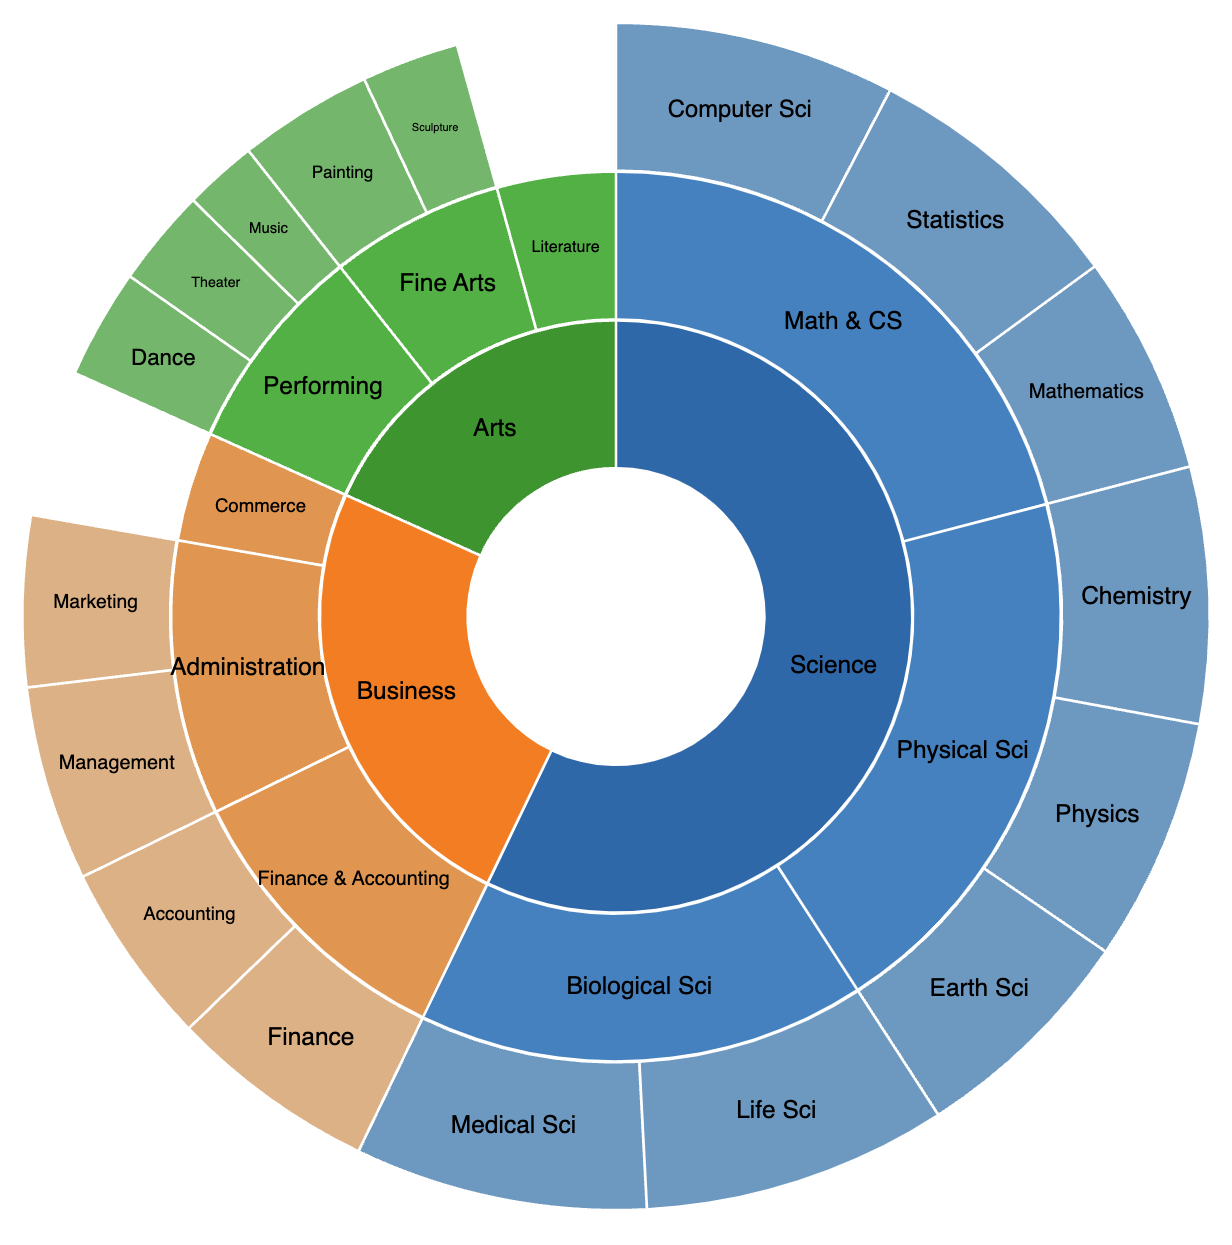
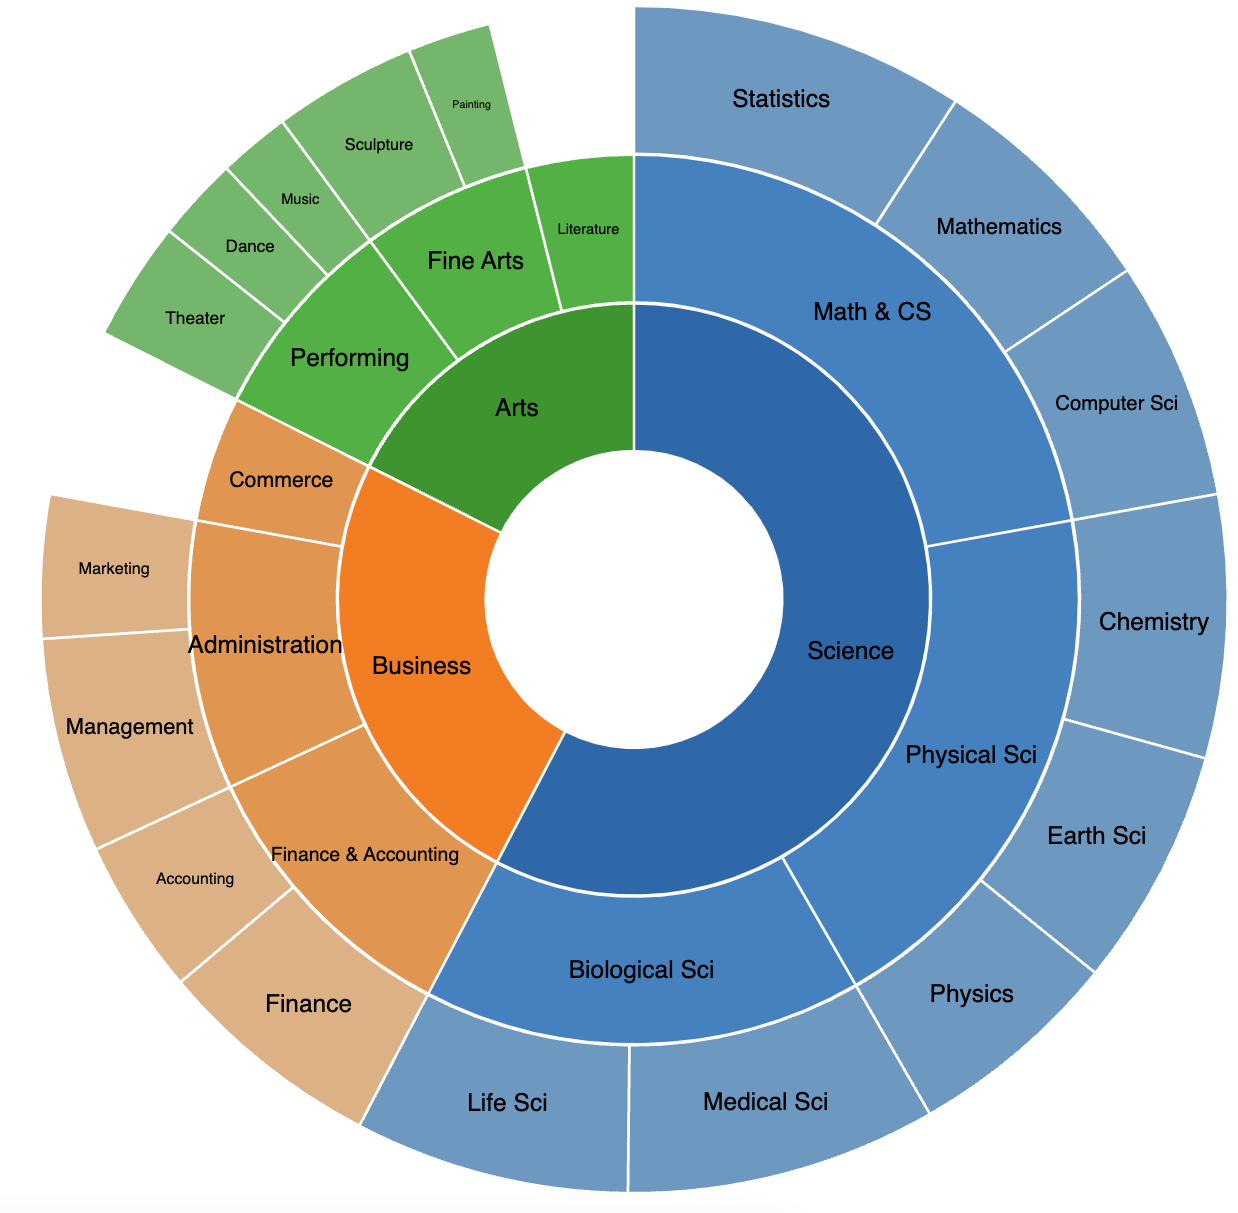
sunburst added

diff --git a/dist/bundle.js b/dist/bundle.js
@@ -10,13 +10,13 @@
 /******/ 	"use strict";
 /******/ 	var __webpack_modules__ = ({
 
-/***/ "./stackedArea/main.ts":
-/*!*****************************!*\
-  !*** ./stackedArea/main.ts ***!
-  \*****************************/
+/***/ "./sunburst/main.ts":
+/*!**************************!*\
+  !*** ./sunburst/main.ts ***!
+  \**************************/
 /***/ (function(__unused_webpack_module, exports, __webpack_require__) {
 
-eval("\nvar __createBinding = (this && this.__createBinding) || (Object.create ? (function(o, m, k, k2) {\n    if (k2 === undefined) k2 = k;\n    var desc = Object.getOwnPropertyDescriptor(m, k);\n    if (!desc || (\"get\" in desc ? !m.__esModule : desc.writable || desc.configurable)) {\n      desc = { enumerable: true, get: function() { return m[k]; } };\n    }\n    Object.defineProperty(o, k2, desc);\n}) : (function(o, m, k, k2) {\n    if (k2 === undefined) k2 = k;\n    o[k2] = m[k];\n}));\nvar __setModuleDefault = (this && this.__setModuleDefault) || (Object.create ? (function(o, v) {\n    Object.defineProperty(o, \"default\", { enumerable: true, value: v });\n}) : function(o, v) {\n    o[\"default\"] = v;\n});\nvar __importStar = (this && this.__importStar) || function (mod) {\n    if (mod && mod.__esModule) return mod;\n    var result = {};\n    if (mod != null) for (var k in mod) if (k !== \"default\" && Object.prototype.hasOwnProperty.call(mod, k)) __createBinding(result, mod, k);\n    __setModuleDefault(result, mod);\n    return result;\n};\nvar __importDefault = (this && this.__importDefault) || function (mod) {\n    return (mod && mod.__esModule) ? mod : { \"default\": mod };\n};\nObject.defineProperty(exports, \"__esModule\", ({ value: true }));\nconst d3 = __importStar(__webpack_require__(/*! d3 */ \"./node_modules/d3/src/index.js\"));\nconst phase2_json_1 = __importDefault(__webpack_require__(/*! ./phase2.json */ \"./stackedArea/phase2.json\"));\n// Define the dimensions of the SVG container, adjusting the margins to make space for the legend\nconst margin = { top: 20, right: 150, bottom: 50, left: 60 };\nconst width = 1360 - margin.left - margin.right;\nconst height = 700 - margin.top - margin.bottom;\n// Append the SVG object to the div with id=\"stackedArea\"\nconst svg = d3\n    .select('#stackedArea')\n    .append('svg')\n    .attr('width', width + margin.left + margin.right + 100) // Extra space for legend\n    .attr('height', height + margin.top + margin.bottom + 50) // Extra space for labels\n    .append('g')\n    .attr('transform', `translate(${margin.left},${margin.top})`);\n// Process the data\nconst data = phase2_json_1.default.map((d) => ({\n    Year: d.Year,\n    Site: d.Site,\n    'Organic Layer': d['Organic Layer'],\n    Topsoil: d.Topsoil,\n    Eluviation: d.Eluviation,\n    Subsoil: d.Subsoil,\n    'Parent Material': d['Parent Material'],\n    Bedrock: d.Bedrock,\n}));\n// List of keys (the soil layers) in the desired order\nconst keys = [\n    'Bedrock',\n    'Parent Material',\n    'Subsoil',\n    'Eluviation',\n    'Topsoil',\n    'Organic Layer',\n];\n// Set the color scale\nconst color = d3\n    .scaleOrdinal()\n    .domain(keys)\n    .range(['#675d53', '#835d3c', '#a86431', '#c48c41', '#974412', '#679f00']);\n// .range(['#1b9e77', '#d95f02', '#7570b3', '#e7298a', '#66a61e', '#e6ab02']);\n// Create the stack generator and reverse the order to start from \"Organic Layer\"\nconst stack = d3\n    .stack()\n    .keys(keys.reverse())\n    .order(d3.stackOrderReverse);\n// Stack the data\nconst stackedData = stack(data);\n// Create the X scale\nconst x = d3\n    .scaleLinear()\n    .domain([\n    d3.min(data, (d) => d.Year),\n    d3.max(data, (d) => d.Year),\n])\n    .range([0, width]);\n// Create the Y scale\nconst y = d3\n    .scaleLinear()\n    .domain([\n    0,\n    d3.max(stackedData[0], (d) => d[1]),\n])\n    .nice()\n    .range([height, 0]);\n// Define the area generator\nconst area = d3\n    .area()\n    .x((d) => x(d.data.Year))\n    .y0((d) => y(d[0]))\n    .y1((d) => y(d[1]));\n// Add the area layers\nsvg\n    .selectAll('.layer')\n    .data(stackedData)\n    .enter()\n    .append('path')\n    .attr('class', 'layer')\n    .attr('d', area)\n    .style('fill', (d) => color(d.key));\n// Get the years from the data\nconst years = data.map((d) => d.Year);\n// Calculate min and max years\nconst minYear = d3.min(years);\nconst maxYear = d3.max(years);\n// Generate an array of years every 10 years for gridlines\nconst allYears = d3.range(minYear, maxYear + 1, 10);\n// Create the X axis\nconst xAxis = d3\n    .axisBottom(x)\n    .tickValues(years)\n    .tickFormat(d3.format('d'));\n// Add the X axis\nsvg\n    .append('g')\n    .attr('class', 'x axis')\n    .attr('transform', `translate(0, ${height})`)\n    .call(xAxis)\n    .selectAll('text') // Select all x-axis labels\n    .style('font-size', '25px'); // Set font size\n// Add X gridlines\nsvg\n    .append('g')\n    .attr('class', 'x grid')\n    .attr('transform', `translate(0, ${height})`)\n    .call(d3.axisBottom(x)\n    .tickValues(allYears)\n    .tickSize(-height)\n    .tickFormat(() => ''))\n    .selectAll('line')\n    .style('stroke', '#e0e0e0')\n    .style('stroke-opacity', 0.5);\n// Create the Y axis\nconst yAxis = d3.axisLeft(y);\n// Add the Y axis\nsvg.append('g').attr('class', 'y axis').call(yAxis).selectAll('text') // Select all x-axis labels\n    .style('font-size', '25px'); // Set font size\n// Add Y gridlines\n// svg\n//   .append('g')\n//   .attr('class', 'y grid')\n//   .call(\n//     d3.axisLeft(y)\n//       .tickSize(-width)\n//       .tickFormat(() => '')\n//   )\n//   .selectAll('line')\n//   .style('stroke', '#e0e0e0');\n// Add axis labels\nsvg\n    .append('text')\n    .attr('transform', `translate(${width / 2}, ${height + margin.bottom - 10})`)\n    .style('text-anchor', 'middle')\n    .text('Year');\nsvg\n    .append('text')\n    .attr('transform', 'rotate(-90)')\n    .attr('y', 0 - margin.left)\n    .attr('x', 0 - height / 2)\n    .attr('dy', '1em')\n    .style('text-anchor', 'middle')\n    .text('Thickness (cm)');\n// Position the legend to the right of the chart\nconst legend = svg\n    .append('g')\n    .attr('class', 'legend')\n    .attr('transform', `translate(${width + 30}, 20)`);\n// Reverse the keys for the legend to match the stacking order\nconst legendItems = legend\n    .selectAll('.legend-item')\n    .data(keys.slice())\n    .enter()\n    .append('g')\n    .attr('class', 'legend-item')\n    .attr('transform', (d, i) => `translate(0, ${i * 25})`);\nlegendItems\n    .append('rect')\n    .attr('x', 0)\n    .attr('y', 0)\n    .attr('width', 18)\n    .attr('height', 18)\n    .style('fill', (d) => color(d));\nlegendItems\n    .append('text')\n    .attr('x', 24)\n    .attr('y', 9)\n    .attr('dy', '.35em')\n    .text((d) => d);\n\n\n//# sourceURL=webpack://analogyvis/./stackedArea/main.ts?");
+eval("\nvar __createBinding = (this && this.__createBinding) || (Object.create ? (function(o, m, k, k2) {\n    if (k2 === undefined) k2 = k;\n    var desc = Object.getOwnPropertyDescriptor(m, k);\n    if (!desc || (\"get\" in desc ? !m.__esModule : desc.writable || desc.configurable)) {\n      desc = { enumerable: true, get: function() { return m[k]; } };\n    }\n    Object.defineProperty(o, k2, desc);\n}) : (function(o, m, k, k2) {\n    if (k2 === undefined) k2 = k;\n    o[k2] = m[k];\n}));\nvar __setModuleDefault = (this && this.__setModuleDefault) || (Object.create ? (function(o, v) {\n    Object.defineProperty(o, \"default\", { enumerable: true, value: v });\n}) : function(o, v) {\n    o[\"default\"] = v;\n});\nvar __importStar = (this && this.__importStar) || function (mod) {\n    if (mod && mod.__esModule) return mod;\n    var result = {};\n    if (mod != null) for (var k in mod) if (k !== \"default\" && Object.prototype.hasOwnProperty.call(mod, k)) __createBinding(result, mod, k);\n    __setModuleDefault(result, mod);\n    return result;\n};\nvar __importDefault = (this && this.__importDefault) || function (mod) {\n    return (mod && mod.__esModule) ? mod : { \"default\": mod };\n};\nObject.defineProperty(exports, \"__esModule\", ({ value: true }));\nconst d3 = __importStar(__webpack_require__(/*! d3 */ \"./node_modules/d3/src/index.js\"));\nconst phase2_json_1 = __importDefault(__webpack_require__(/*! ./phase2.json */ \"./sunburst/phase2.json\"));\n// Cast the imported data to the NodeData interface\nconst data = phase2_json_1.default;\n// Set dimensions and radius\nconst width = 1160;\nconst height = 700;\nconst radius = Math.min(width, height) / 2 - 10;\nconst format = d3.format(\",d\");\n// Append an SVG element to the #sunburst div\nconst svg = d3.select(\"#sunburst\")\n    .append(\"svg\")\n    .attr(\"viewBox\", `0 0 ${width} ${height}`)\n    .style(\"font\", \"10px sans-serif\")\n    .append(\"g\")\n    .attr(\"transform\", `translate(${width / 2},${height / 2})`);\n// Function to filter redundant layers\nfunction removeRedundantChildren(node) {\n    if (node.children) {\n        node.children = node.children.filter(child => child.name !== node.name);\n        node.children.forEach(removeRedundantChildren);\n    }\n}\nremoveRedundantChildren(data); // Remove redundant layers\n// Create the root hierarchy and apply the partition layout\nconst root = d3.partition()\n    .size([2 * Math.PI, radius])(d3.hierarchy(data)\n    .sum(d => d.value || 0)\n    .sort((a, b) => (b.value || 0) - (a.value || 0)));\n// Define a color scale for top-level categories\nconst colorScale = d3.scaleOrdinal()\n    .domain(data.children ? data.children.map(d => d.name) : [])\n    .range(d3.schemeCategory10); // Use a predefined color scheme\nfunction getColor(d) {\n    if (d.depth === 0) {\n        return '#ccc';\n    }\n    if (d.depth === 1) {\n        return colorScale(d.data.name);\n    }\n    // Derive color from parent for deeper nodes\n    const parentColor = getColor(d.parent);\n    const hsl = d3.hsl(parentColor);\n    hsl.s *= 0.8;\n    hsl.l = Math.min(1, hsl.l + 0.1);\n    return hsl.formatHex();\n}\n// Create the arc generator\nconst arc = d3.arc()\n    .startAngle(d => d.x0)\n    .endAngle(d => d.x1)\n    .padAngle(0.005)\n    .padRadius(radius / 3)\n    .innerRadius(d => d.y0)\n    .outerRadius(d => d.y1 - 1);\n// Draw the arcs\nsvg.selectAll('path')\n    .data(root.descendants())\n    .enter().append('path')\n    .attr('display', d => d.depth ? null : \"none\") // Hide the root ring\n    .attr('d', arc)\n    .style('stroke', '#fff')\n    .style('fill', d => getColor(d))\n    .append('title')\n    .text(d => `${d.ancestors().map(d => d.data.name).reverse().join(\" / \")}\\n${format(d.value || 0)}`);\n// Define a threshold to determine small arcs\nconst labelThreshold = 0.1;\n// Separate nodes into those suitable for inside labels and those needing outside labels\nconst labelNodes = root.descendants().filter(d => d.depth && (d.x1 - d.x0) > labelThreshold);\nconst smallLabelNodes = root.descendants().filter(d => d.depth && (d.x1 - d.x0) <= labelThreshold);\n// Add inside labels\nsvg.selectAll('text')\n    .data(labelNodes)\n    .enter().append('text')\n    .attr('transform', function (d) {\n    const angle = (d.x0 + d.x1) / 2;\n    const radius = (d.y0 + d.y1) / 2;\n    const x = Math.cos(angle - Math.PI / 2) * radius;\n    const y = Math.sin(angle - Math.PI / 2) * radius;\n    return `translate(${x},${y})`;\n})\n    .attr('text-anchor', 'middle')\n    .attr('alignment-baseline', 'middle')\n    .text(d => d.data.name)\n    .style('font-size', d => {\n    const textLength = d.data.name.length;\n    const arcLength = (d.x1 - d.x0) * radius;\n    const size = Math.min(14, (arcLength / textLength));\n    return size + 'px';\n})\n    .style('fill', '#000');\n// Add outside labels and leader lines for small arcs\nconst outerLabelsGroup = svg.append('g').attr('class', 'outer-labels');\n// Add the lines (leader lines)\nouterLabelsGroup.selectAll('polyline')\n    .data(smallLabelNodes)\n    .enter().append('polyline')\n    .attr('points', function (d) {\n    const angle = (d.x0 + d.x1) / 2;\n    const outerRadius = d.y1 - 2;\n    const x = Math.cos(angle - Math.PI / 2) * outerRadius;\n    const y = Math.sin(angle - Math.PI / 2) * outerRadius;\n    const labelRadius = radius + 2;\n    const lx = Math.cos(angle - Math.PI / 2) * labelRadius;\n    const ly = Math.sin(angle - Math.PI / 2) * labelRadius;\n    return `${x},${y} ${lx},${ly}`;\n})\n    .style('fill', 'none')\n    .style('stroke', '#000')\n    .style('stroke-width', 1);\n// Add the labels\nouterLabelsGroup.selectAll('text')\n    .data(smallLabelNodes)\n    .enter().append('text')\n    .attr('transform', function (d) {\n    const angle = (d.x0 + d.x1) / 2;\n    const labelRadius = radius + 5;\n    const x = Math.cos(angle - Math.PI / 2) * labelRadius;\n    const y = Math.sin(angle - Math.PI / 2) * labelRadius;\n    return `translate(${x},${y})`;\n})\n    .attr('text-anchor', function (d) {\n    const angle = (d.x0 + d.x1) / 2 * 180 / Math.PI;\n    return angle > 180 ? 'end' : 'start';\n})\n    .attr('alignment-baseline', 'middle')\n    .text(d => d.data.name)\n    .style('font-size', '10px')\n    .style('fill', '#000');\n\n\n//# sourceURL=webpack://analogyvis/./sunburst/main.ts?");
 
 /***/ }),
 
@@ -5680,13 +5680,13 @@ eval("__webpack_require__.r(__webpack_exports__);\n/* harmony export */ __webpac
 
 /***/ }),
 
-/***/ "./stackedArea/phase2.json":
-/*!*********************************!*\
-  !*** ./stackedArea/phase2.json ***!
-  \*********************************/
+/***/ "./sunburst/phase2.json":
+/*!******************************!*\
+  !*** ./sunburst/phase2.json ***!
+  \******************************/
 /***/ ((module) => {
 
-eval("module.exports = /*#__PURE__*/JSON.parse('[{\"Year\":1974,\"Site\":\"A\",\"Organic Layer\":7,\"Topsoil\":19,\"Eluviation\":15,\"Subsoil\":28,\"Parent Material\":12,\"Bedrock\":40},{\"Year\":1984,\"Site\":\"A\",\"Organic Layer\":4,\"Topsoil\":18,\"Eluviation\":18,\"Subsoil\":22,\"Parent Material\":15,\"Bedrock\":45},{\"Year\":1994,\"Site\":\"A\",\"Organic Layer\":6,\"Topsoil\":22,\"Eluviation\":19,\"Subsoil\":30,\"Parent Material\":12,\"Bedrock\":36},{\"Year\":2004,\"Site\":\"A\",\"Organic Layer\":5,\"Topsoil\":13,\"Eluviation\":21,\"Subsoil\":33,\"Parent Material\":20,\"Bedrock\":34},{\"Year\":2014,\"Site\":\"A\",\"Organic Layer\":3,\"Topsoil\":16,\"Eluviation\":22,\"Subsoil\":22,\"Parent Material\":16,\"Bedrock\":41},{\"Year\":2024,\"Site\":\"A\",\"Organic Layer\":2,\"Topsoil\":14,\"Eluviation\":24,\"Subsoil\":18,\"Parent Material\":12,\"Bedrock\":46}]');\n\n//# sourceURL=webpack://analogyvis/./stackedArea/phase2.json?");
+eval("module.exports = /*#__PURE__*/JSON.parse('{\"name\":\"\",\"children\":[{\"name\":\"Science\",\"children\":[{\"name\":\"Biological Sci\",\"children\":[{\"name\":\"Medical Sci\",\"value\":130},{\"name\":\"Life Sci\",\"value\":115}]},{\"name\":\"Physical Sci\",\"children\":[{\"name\":\"Physics\",\"value\":90},{\"name\":\"Chemistry\",\"value\":110},{\"name\":\"Earth Sci\",\"value\":100}]},{\"name\":\"Math & CS\",\"children\":[{\"name\":\"Mathematics\",\"value\":100},{\"name\":\"Computer Sci\",\"value\":100},{\"name\":\"Statistics\",\"value\":140}]}]},{\"name\":\"Business\",\"children\":[{\"name\":\"Administration\",\"children\":[{\"name\":\"Management\",\"value\":90},{\"name\":\"Marketing\",\"value\":60}]},{\"name\":\"Finance & Accounting\",\"children\":[{\"name\":\"Finance\",\"value\":95},{\"name\":\"Accounting\",\"value\":65}]},{\"name\":\"Commerce\",\"value\":70}]},{\"name\":\"Arts\",\"children\":[{\"name\":\"Fine Arts\",\"children\":[{\"name\":\"Painting\",\"value\":35},{\"name\":\"Sculpture\",\"value\":60}]},{\"name\":\"Performing\",\"children\":[{\"name\":\"Theater\",\"value\":50},{\"name\":\"Dance\",\"value\":35},{\"name\":\"Music\",\"value\":30}]},{\"name\":\"Literature\",\"value\":60}]}]}');\n\n//# sourceURL=webpack://analogyvis/./sunburst/phase2.json?");
 
 /***/ })
 
@@ -5750,7 +5750,7 @@ eval("module.exports = /*#__PURE__*/JSON.parse('[{\"Year\":1974,\"Site\":\"A\",\
 /******/ 	// startup
 /******/ 	// Load entry module and return exports
 /******/ 	// This entry module is referenced by other modules so it can't be inlined
-/******/ 	var __webpack_exports__ = __webpack_require__("./stackedArea/main.ts");
+/******/ 	var __webpack_exports__ = __webpack_require__("./sunburst/main.ts");
 /******/ 	
 /******/ })()
 ;
